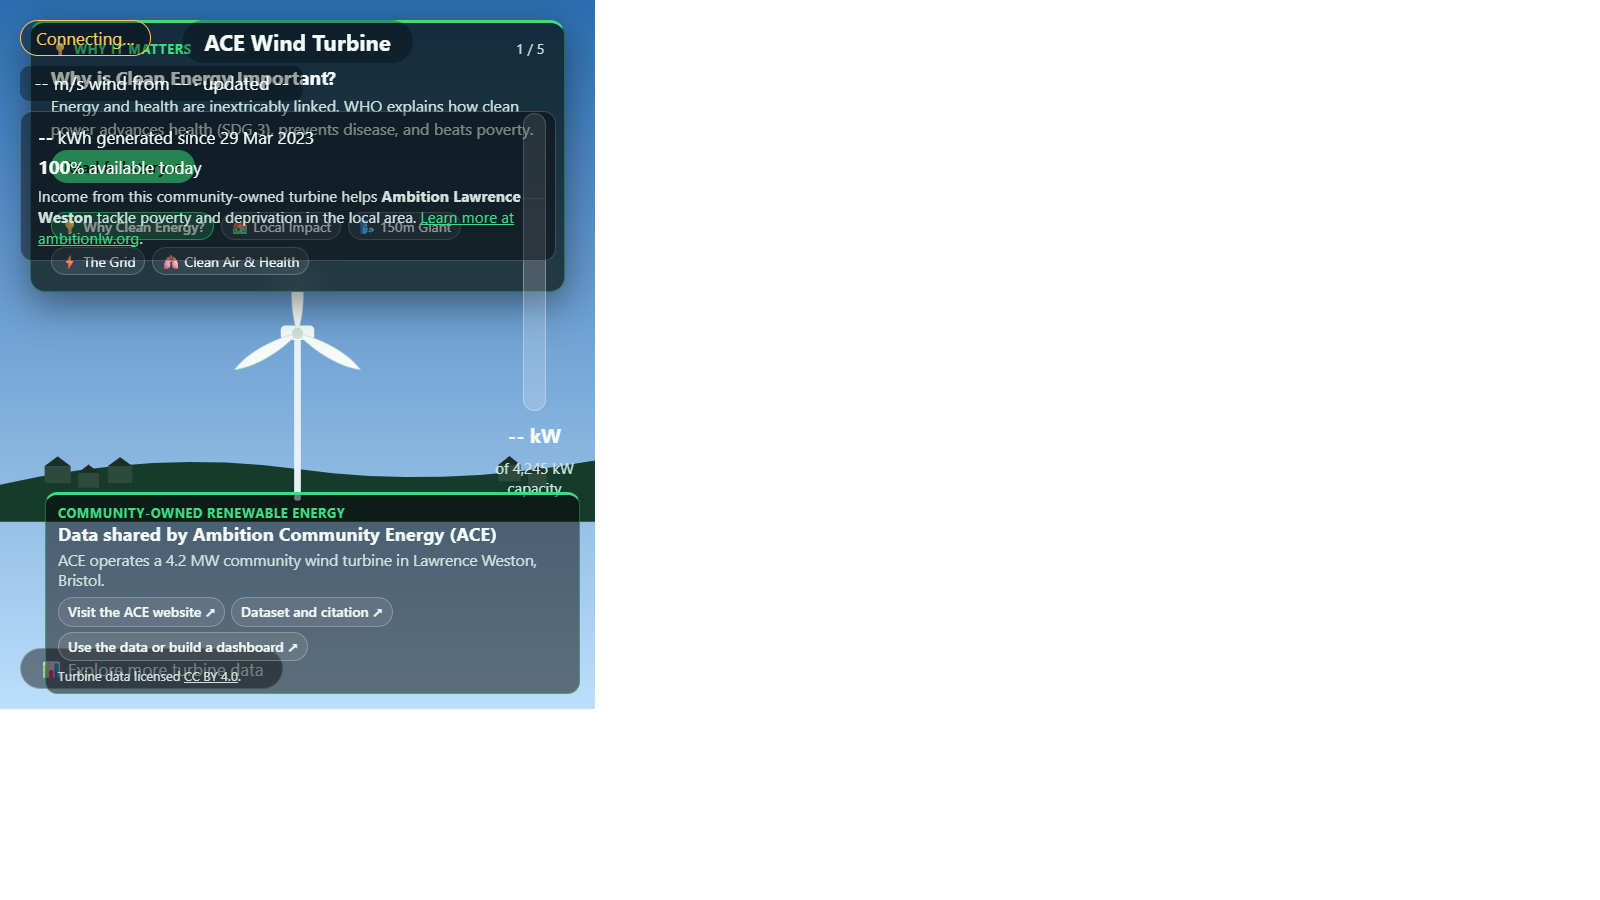
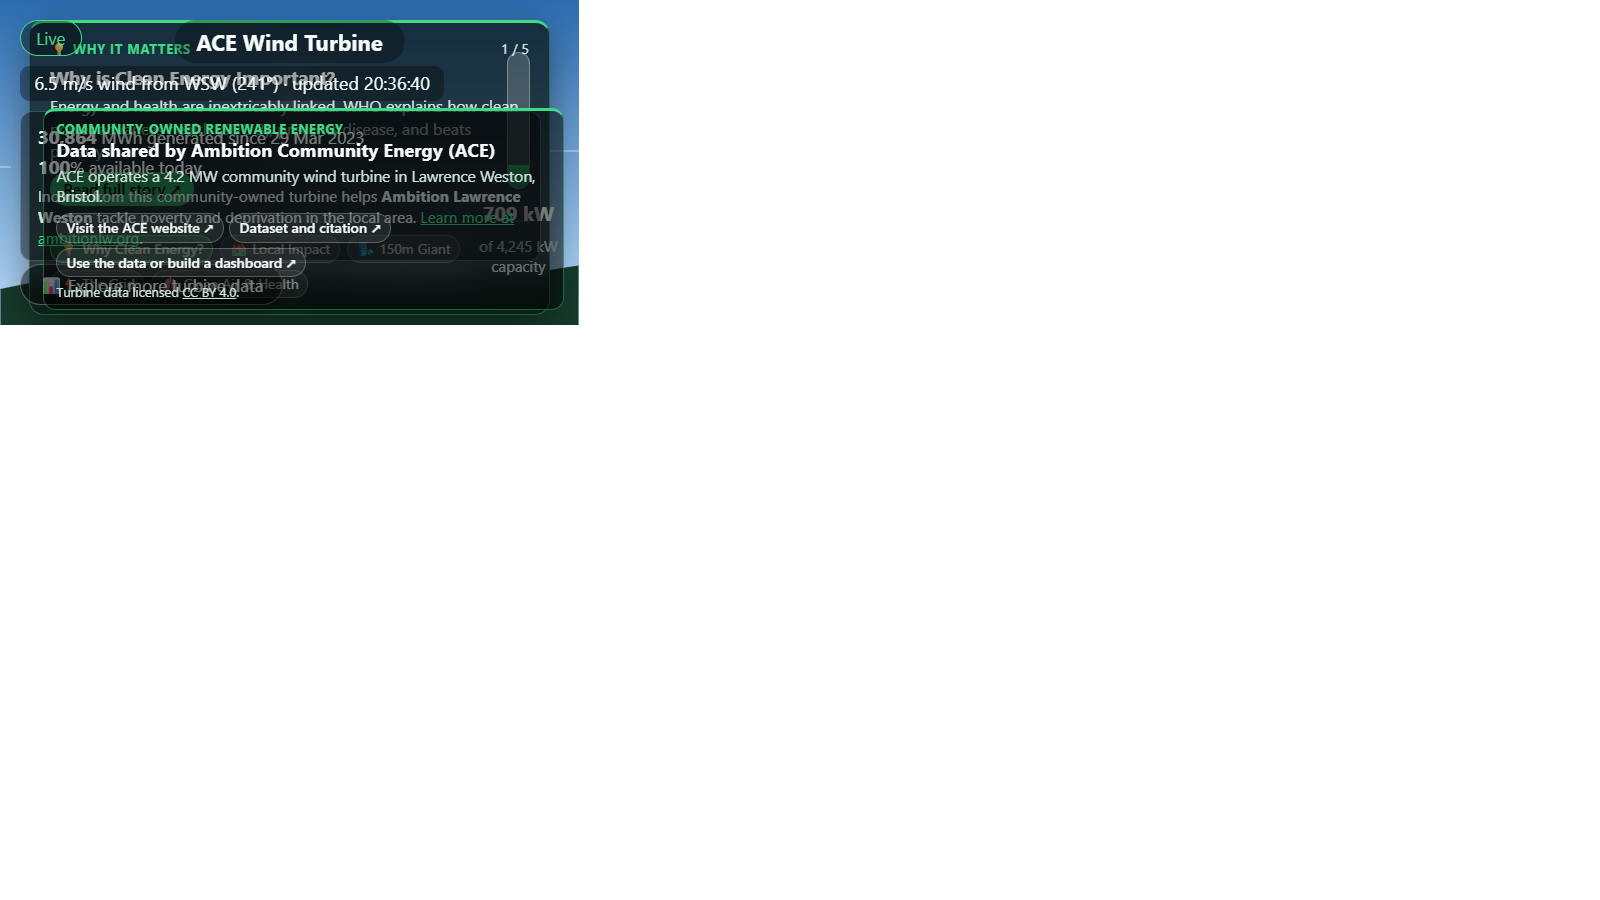
concept-7: display lifetime energy in closest MWh instead of kWh

Changed region(s): [[0.0, 0.0, 0.375, 0.8089]]

diff --git a/solutions/concept-7-live-digital-twin-popups/app.js b/solutions/concept-7-live-digital-twin-popups/app.js
@@ -454,6 +454,7 @@ function handleLiveData(data) {
   const rotorRpm = coreCache.wec_rotor_speed.value;
   const heading = coreCache.wec_nacelle_position.value;
   const lifetimeEnergy = coreCache.wec_energy_exported.value;
+  const lifetimeEnergyMwh = Math.round(lifetimeEnergy / 1000);
 
   const oldestObservedMicros = Math.min(...CORE_FIELDS.map((f) => observedAt[f][0]));
   lastGoodObservedAtMs = oldestObservedMicros / 1000;
@@ -463,7 +464,7 @@ function handleLiveData(data) {
   observedEl.textContent = new Date(lastGoodObservedAtMs).toLocaleTimeString('en-GB', {
     timeZone: 'Europe/London',
   });
-  lifetimeEnergyEl.textContent = numberFormatter.format(lifetimeEnergy);
+  lifetimeEnergyEl.textContent = numberFormatter.format(lifetimeEnergyMwh);
 
   const yawOffsetPx = ((heading - 180) / 180) * 8;
   yawGroupEl.setAttribute('transform', `translate(${yawOffsetPx.toFixed(1)}, 0)`);

diff --git a/solutions/concept-7-live-digital-twin-popups/index.html b/solutions/concept-7-live-digital-twin-popups/index.html
@@ -84,7 +84,7 @@
       </div>
 
       <div class="info-panel">
-        <div class="info-stat"><strong id="lifetime-energy">--</strong> kWh generated since 29 Mar 2023</div>
+        <div class="info-stat"><strong id="lifetime-energy">--</strong> MWh generated since 29 Mar 2023</div>
         <div class="info-stat"><strong id="availability-today">--</strong>% available today</div>
         <p class="mission">
           Income from this community-owned turbine helps <strong>Ambition Lawrence Weston</strong>
